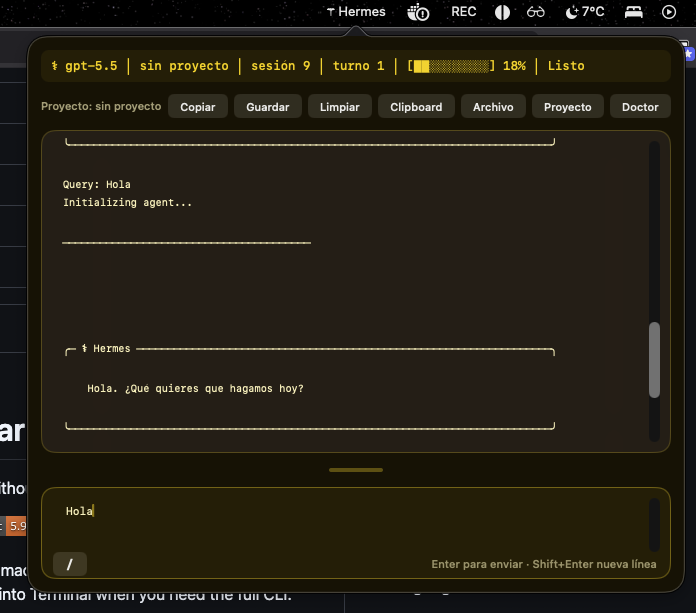
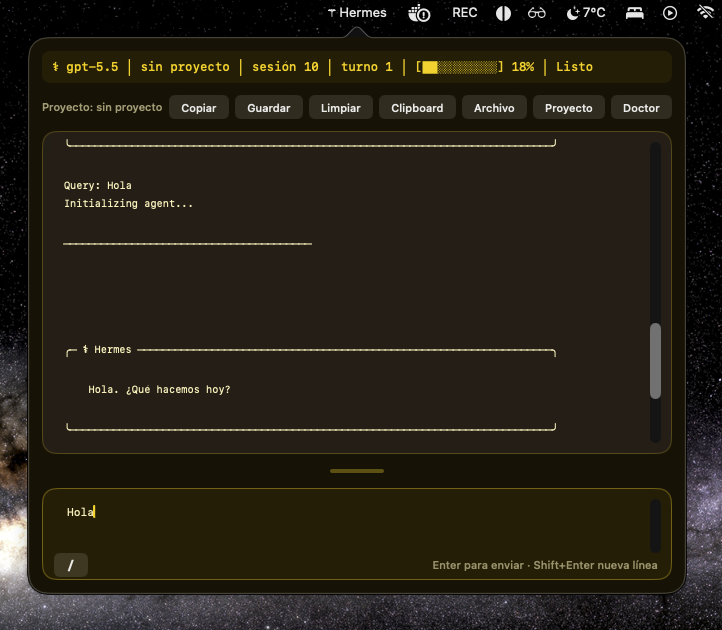
Update README screenshot

diff --git a/README.md b/README.md
@@ -28,7 +28,7 @@ Built for people who live in agents all day and want the fast path: click, ask, 
 ## Preview
 
 <p align="center">
-  <img src="assets/hermes-agent-bar-screenshot.png" alt="Hermes Agent Bar macOS popover" width="696">
+  <img src="assets/hermes-agent-bar-screenshot.png" alt="Hermes Agent Bar macOS popover" width="722">
 </p>
 
 ## Requirements
